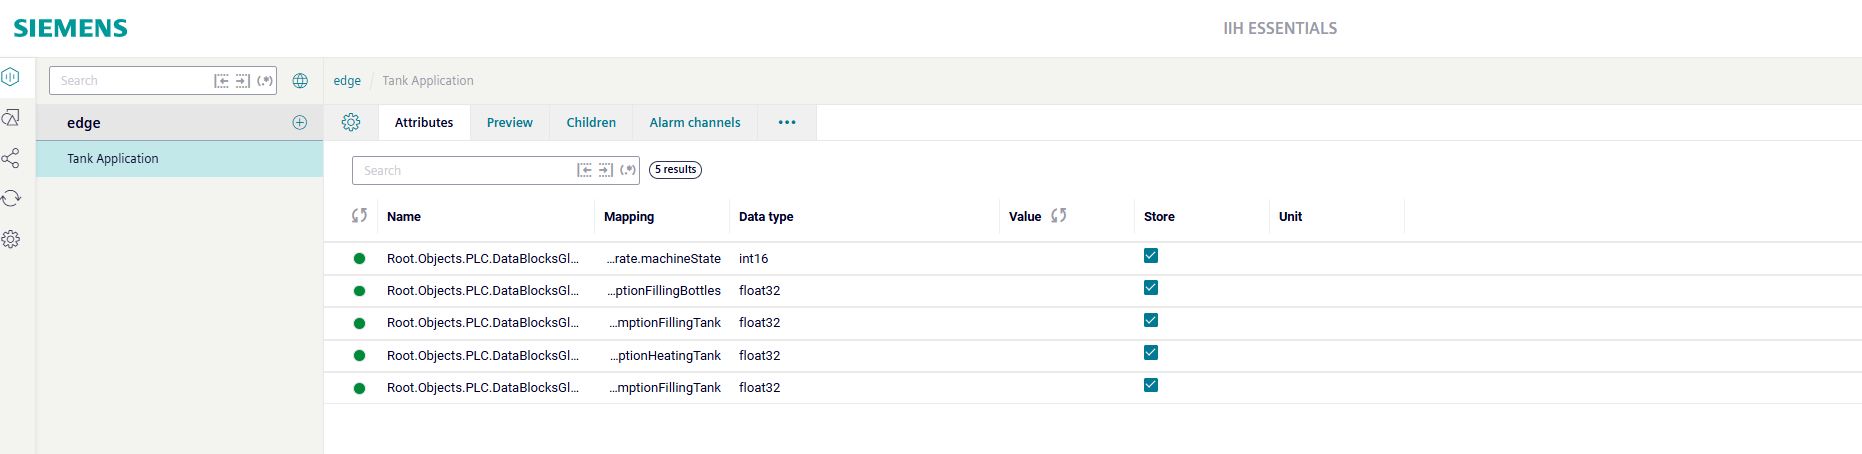
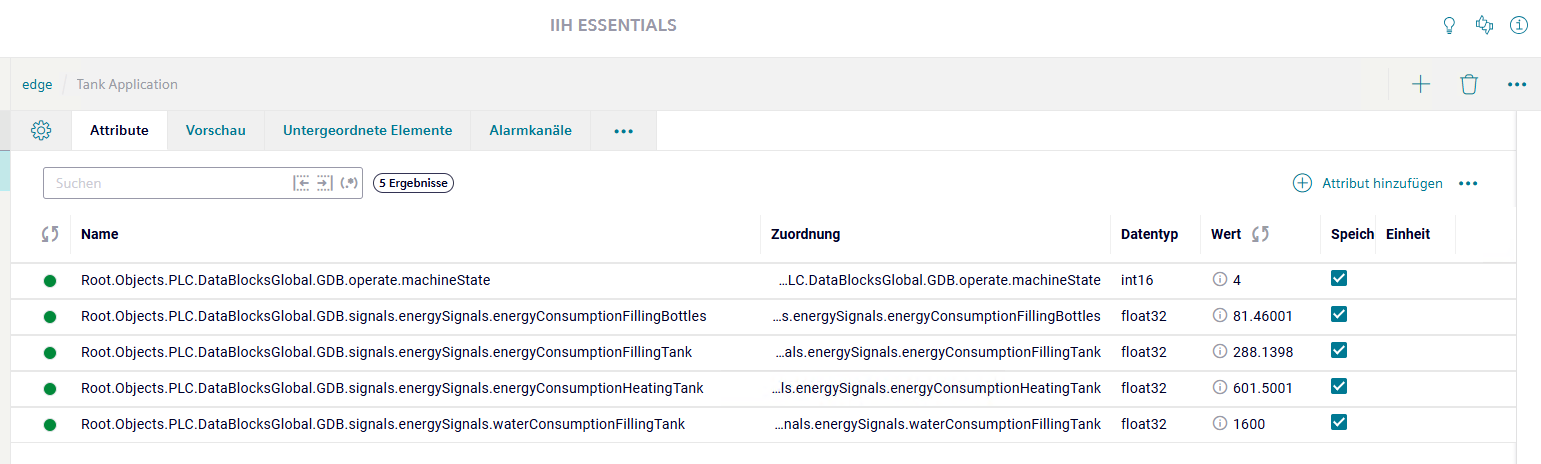
changed IIH Essentials pic to show full Tagname Insert mapping for energy app and hint to change display names of tags Energy App only shows full Tagname when hovering over the tag

diff --git a/docs/Usage.md b/docs/Usage.md
@@ -73,6 +73,10 @@ Follow these steps to create a KPI instance in the parameter list based on our K
 - select "On the basis of a KPI type"
 - select the KPI type for 'Total energy'
 - link all operands to a variable coming from IIH Hand set the aggregation to "Last"
+  - EnergyFillingTank -> Root.Objects.PLC.DataBlocksGlobal.GDB.signals.energySignals.energyConsumptionFillingTank
+  - EnergyFillingBottles -> Root.Objects.PLC.DataBlocksGlobal.GDB.signals.energySignals.energyConsumptionFillingBottles
+  - EnergyHeatingTank -> Root.Objects.PLC.DataBlocksGlobal.GDB.signals.energySignals.energyConsumptionHeatingTank
+> **Hint:** The full display name of the variables are displayed by hovering over the name, secondly they can be changed/shortened in the IIH Essentials. 
 
 ![Energy_Manager_KPI_Instance](/docs/graphics/Energy_Manager_KPI_Instance.png)
 
